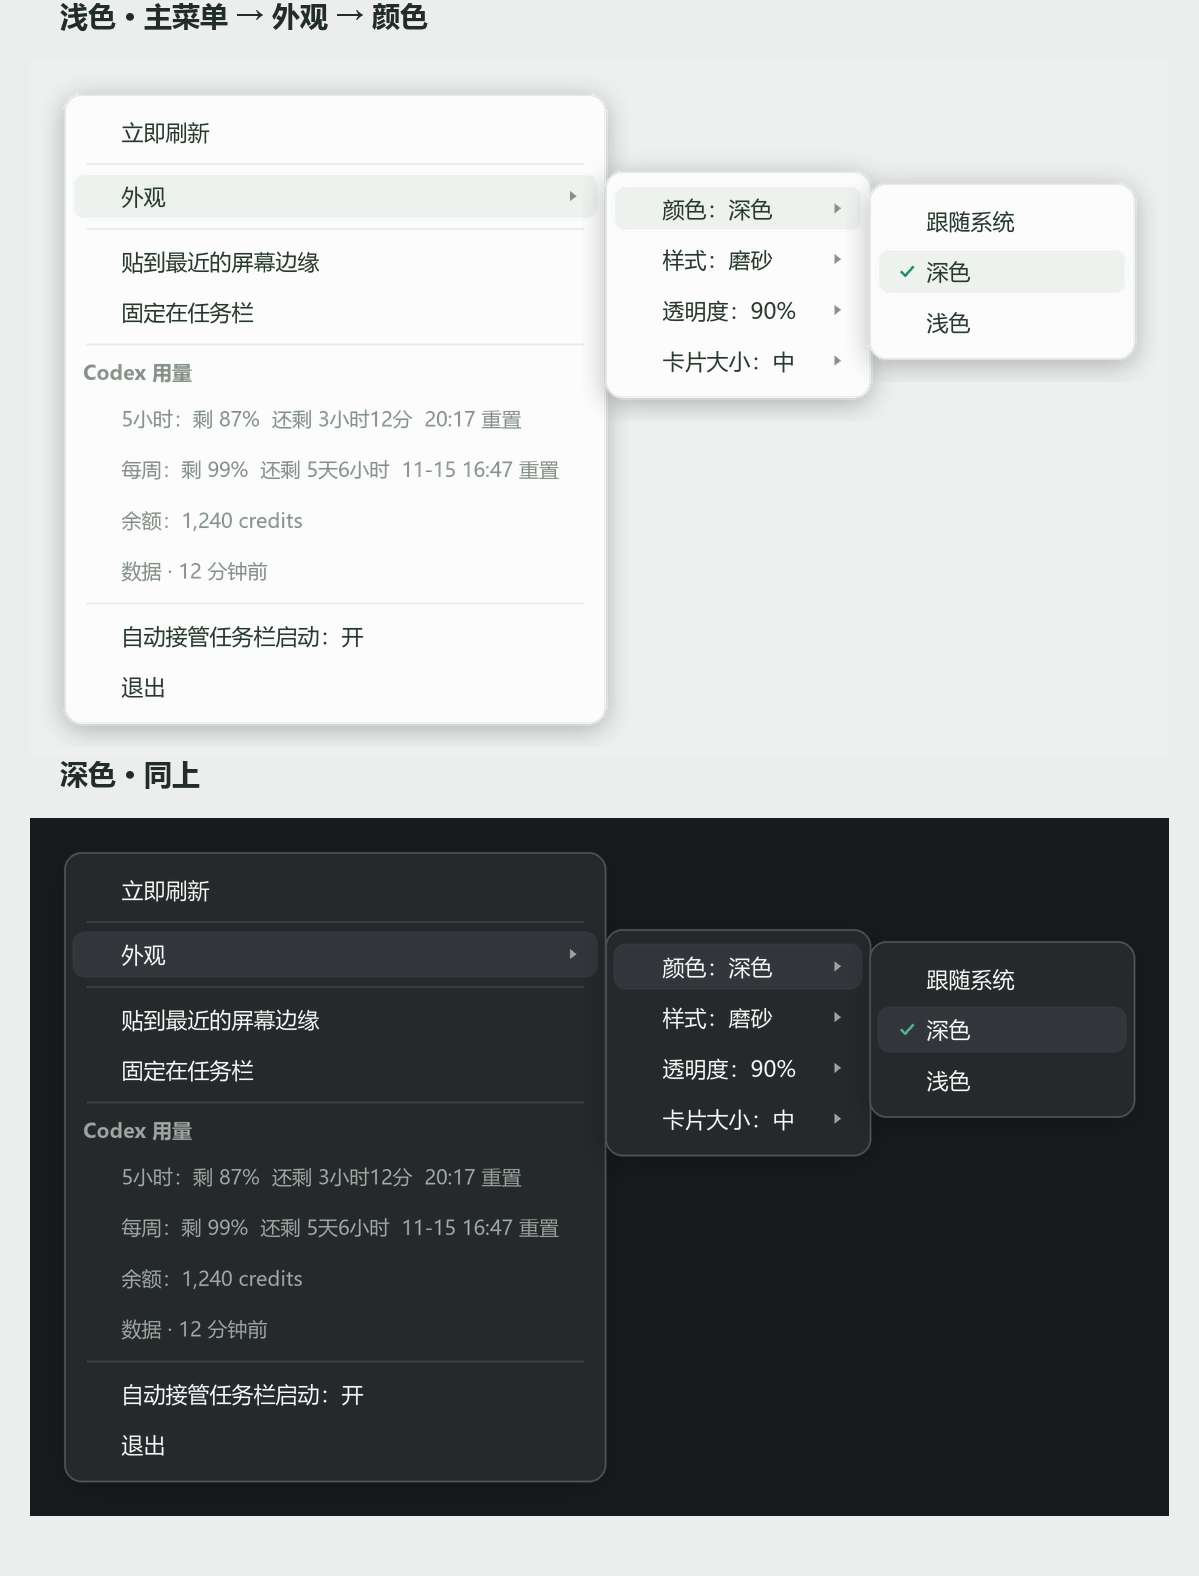
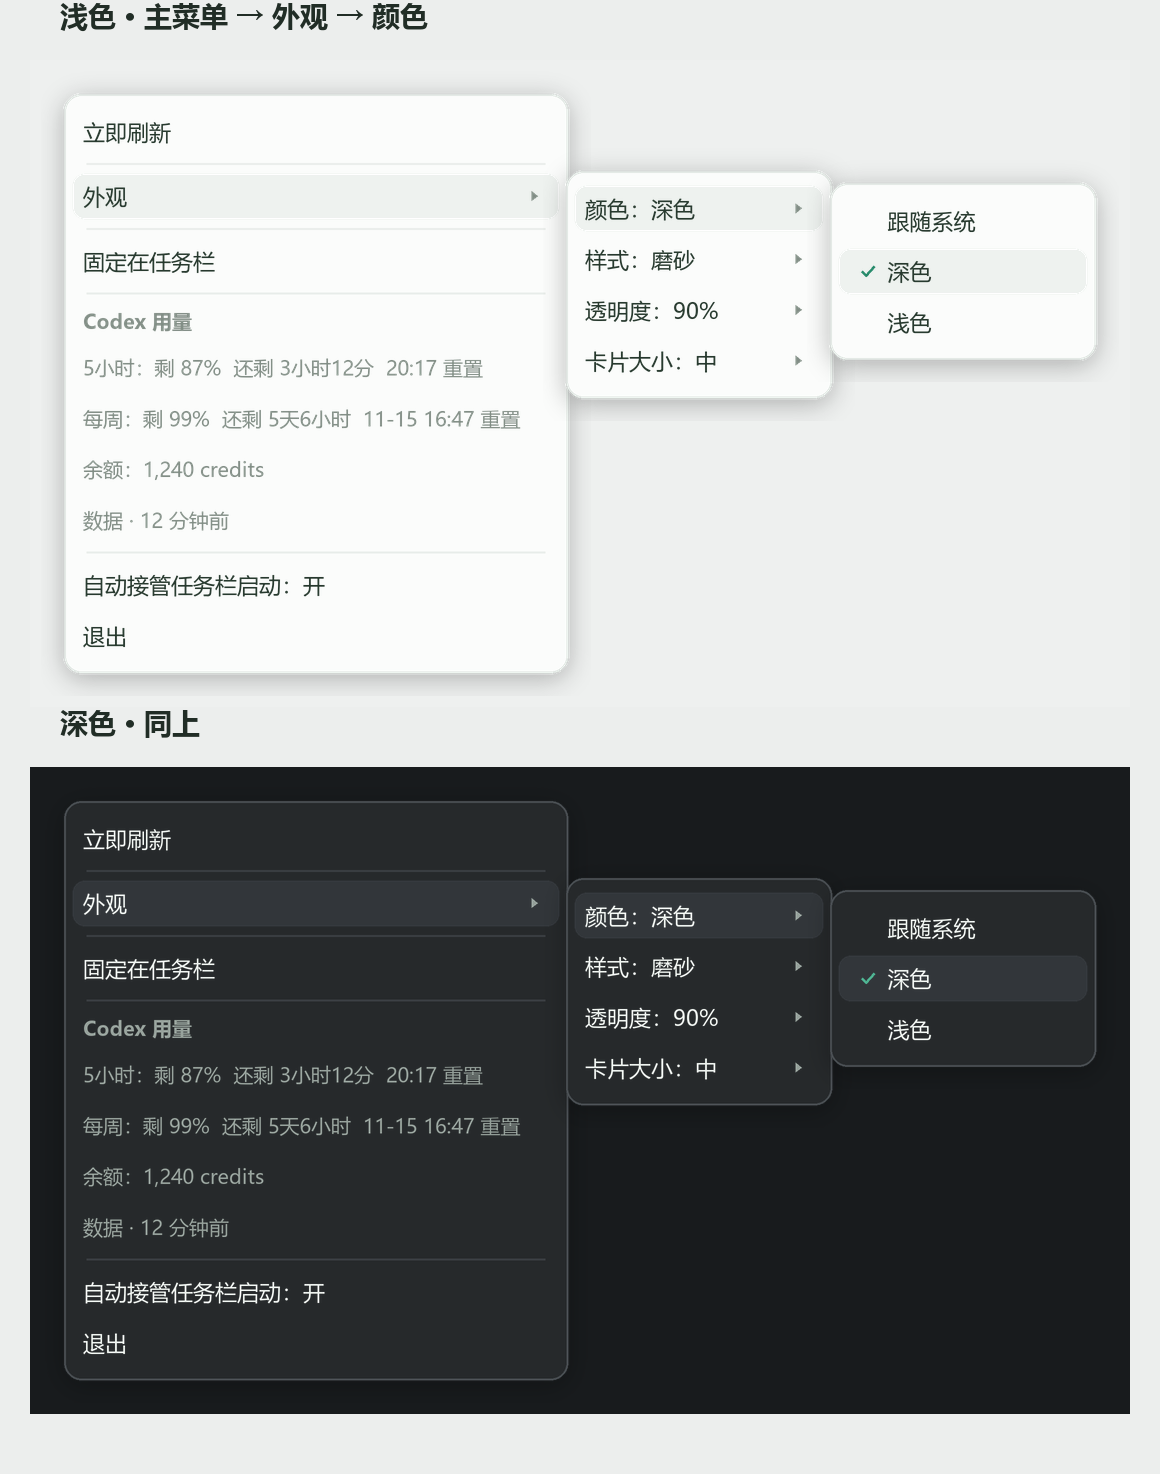
docs: 按当前实现重出样张（电池已缩短、菜单已删一行），补深色版
- card-3sizes.png：改为调用 float_win32.render() 真实渲染，不再是手绘示意。
  旧图电池是改短之前的 30 逻辑 px（实测 48 px 宽），现为 25（41 px）；
  周额度格式也从 11.15 改成代码里的 11/9。新增深色一行，三档尺寸都有浅/深两版。
- menu-sublevels.png：主菜单里的「贴到最近的屏幕边缘」已删除，重出后不再出现。
- 移除 ball-3sizes / final-sizes / menu-sizes：描述的是已取消的「收起成小球」
  与系统原生菜单，均无 README 引用，本地归档到 backup/removed。
- README：痛点表的标签示例改为真实文案（不含 tokens）；目录说明补一句样张
  由脚本生成，改完界面要重跑。

diff --git a/tools/make_card_sizes.py b/tools/make_card_sizes.py
@@ -1,0 +1,95 @@
+# -*- coding: utf-8 -*-
+"""生成 docs/screenshots/card-3sizes.png：三档尺寸 × 浅色/深色。
+
+直接调用 float_win32.render()，所以电池、字号、配色永远跟主程序一致——
+不再手绘示意，避免"改了代码但样张没跟着变"。
+"""
+import os
+import sys
+
+HERE = os.path.dirname(os.path.abspath(__file__))
+ROOT = os.path.dirname(HERE)
+sys.path.insert(0, ROOT)
+
+from PIL import Image, ImageDraw, ImageFont
+import float_win32 as F
+
+OUT = os.path.join(ROOT, 'docs', 'screenshots', 'card-3sizes.png')
+
+# 样张内容：左节 5h 重置钟点、右节 week 重置日期（与主程序同格式，不补零）
+DATA = {'reset5': '4:44', 'date': '11/9', 'p1': 99, 'p2': 100}
+
+R = 3.0                 # 渲染倍率（相对逻辑像素），只为看清细节
+DPI = 1.75              # 175% 缩放下的物理像素，用来标注
+CELL_W = 580
+PAD_X = 40
+TOP_PAD = 52            # 每块色带里，卡片区上方留给「浅色 / 深色」标签的高度
+LBL_GAP = 20            # 卡片底边到尺寸文字的间距
+BOT_PAD = 46
+FOOT_H = 54
+
+LIGHT_BG = (241, 243, 244)
+DARK_BG = (22, 24, 26)
+LIGHT_TXT = (88, 98, 92)
+DARK_TXT = (156, 168, 161)
+FOOT_TXT = (128, 138, 132)
+
+FONT = 'C:/Windows/Fonts/msyh.ttc'
+FONT_BD = 'C:/Windows/Fonts/msyhbd.ttc'
+
+
+def font(px, bold=False):
+    try:
+        return ImageFont.truetype(FONT_BD if bold else FONT, px)
+    except Exception:
+        return ImageFont.truetype('C:/Windows/Fonts/simhei.ttf', px)
+
+
+cards = []          # [(名称, size, 浅色图, 深色图)]
+for name, size in F.CARD_SIZES:
+    light = F.render(DATA, scale=R, dark=False, size=size)
+    dark = F.render(DATA, scale=R, dark=True, size=size)
+    cards.append((name, size, light, dark))
+
+max_h = max(c[2].size[1] for c in cards)
+band_h = TOP_PAD + max_h + LBL_GAP + 40 + BOT_PAD
+W = PAD_X * 2 + CELL_W * len(cards)
+H = band_h * 2 + FOOT_H
+
+img = Image.new('RGB', (W, H), LIGHT_BG)
+d = ImageDraw.Draw(img)
+
+# 上：浅色带；下：深色带
+d.rectangle([0, band_h, W, band_h * 2], fill=DARK_BG)
+d.rectangle([0, band_h * 2, W, H], fill=LIGHT_BG)
+
+f_band = font(26, True)
+f_name = font(30, True)
+f_dim = font(24)
+f_foot = font(21)
+
+for row, (title, band_y, text_col, images) in enumerate([
+        ('浅色外观', 0, LIGHT_TXT, [c[2] for c in cards]),
+        ('深色外观', band_h, DARK_TXT, [c[3] for c in cards])]):
+    d.text((PAD_X, band_y + 20), title, font=f_band, fill=text_col)
+
+    base = band_y + TOP_PAD + max_h          # 三张卡底边对齐
+    for i, (name, size, _l, _d) in enumerate(cards):
+        im = images[i]
+        cx = PAD_X + CELL_W * i + CELL_W // 2
+        img.paste(im, (cx - im.size[0] // 2, base - im.size[1]), im)
+
+        py = base + LBL_GAP
+        phys = (int(round(size[0] * DPI)), int(round(size[1] * DPI)))
+        d.text((cx, py), name, font=f_name, fill=text_col, anchor='mt')
+        d.text((cx, py + 40), '逻辑 %d×%d  ·  物理 %d×%d' % (
+            size[0], size[1], phys[0], phys[1]),
+            font=f_dim, fill=text_col, anchor='mt')
+
+d.text((PAD_X, H - 38),
+       '图为逻辑像素的 3 倍渲染（非 1:1 截图）；物理尺寸指 175% 缩放下的实际像素',
+       font=f_foot, fill=FOOT_TXT)
+
+os.makedirs(os.path.dirname(OUT), exist_ok=True)
+img.save(OUT)
+print('saved', OUT, img.size)

diff --git a/tools/preview_menu_sub.py b/tools/preview_menu_sub.py
@@ -27,7 +27,7 @@ def level1():
                               ('大', True, None)]),
         ]),
         ('-', False, None),
-        ('贴到最近的屏幕边缘', True, None),
+        # 未贴边时不出现「取消贴边」；贴边是拖到边缘自动发生的，不单列一行
         ('固定在任务栏', True, None),
         ('-', False, None),
         ('Codex 用量', False, None, M.MENU_SECTION),
